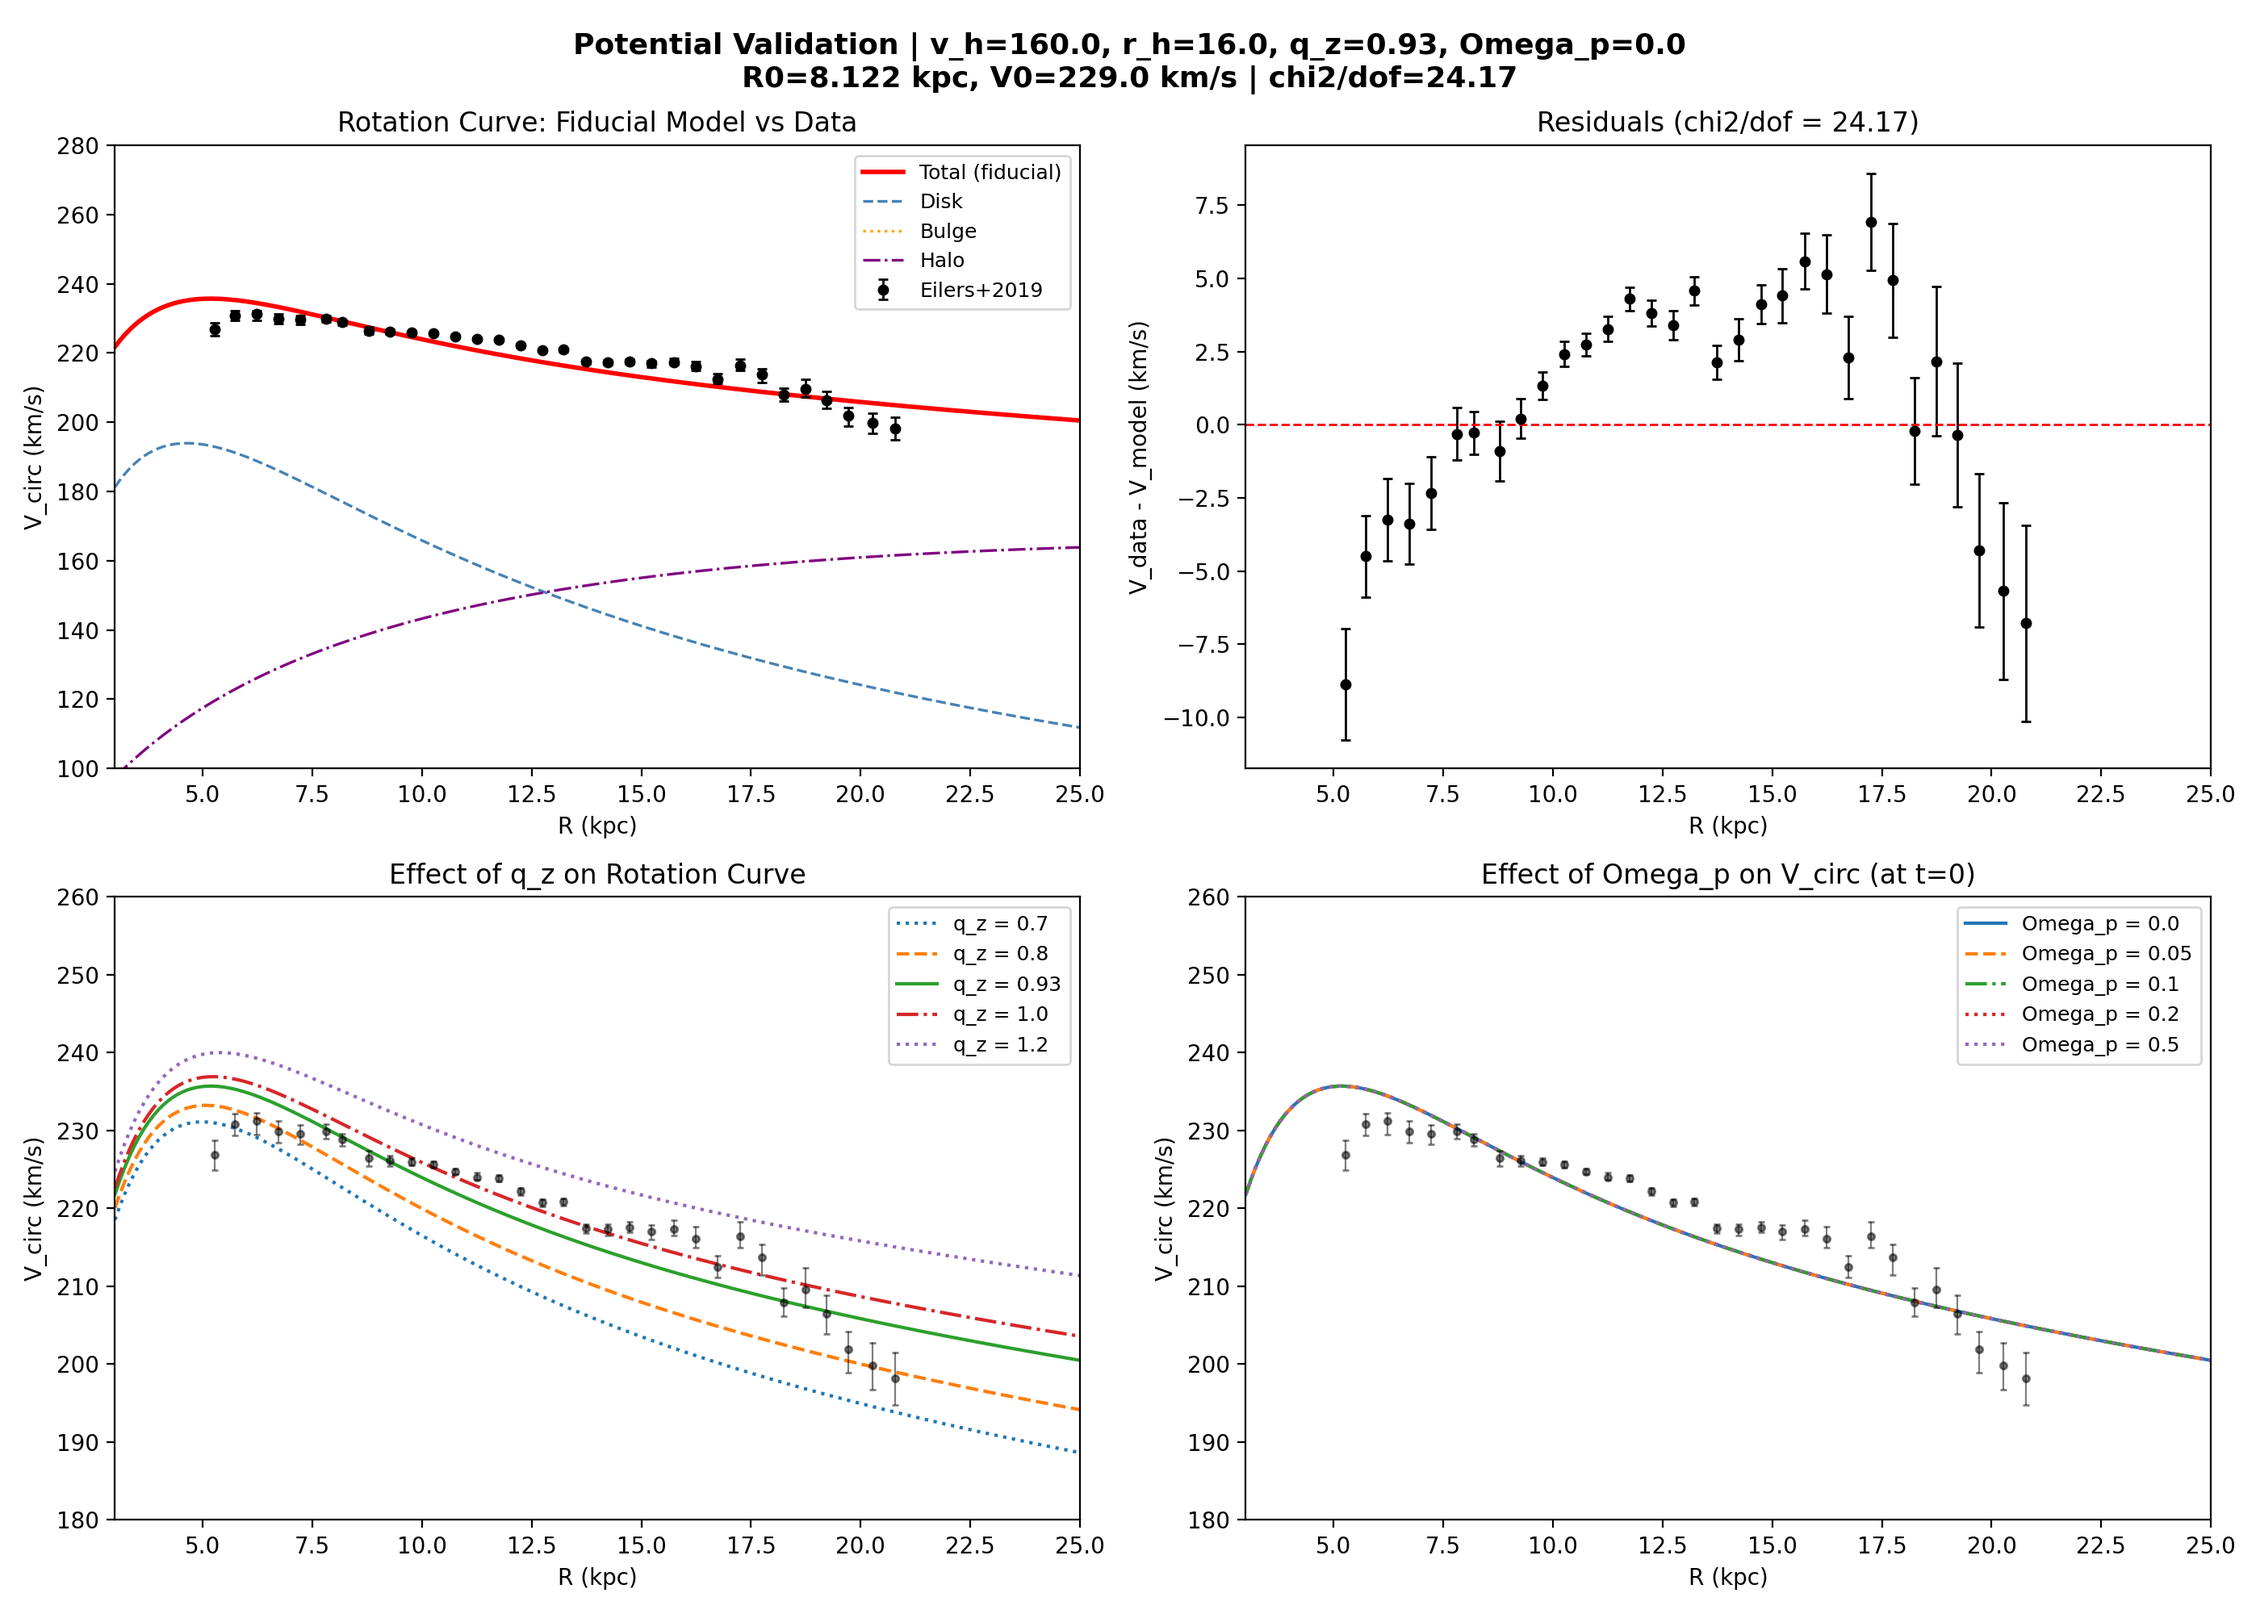
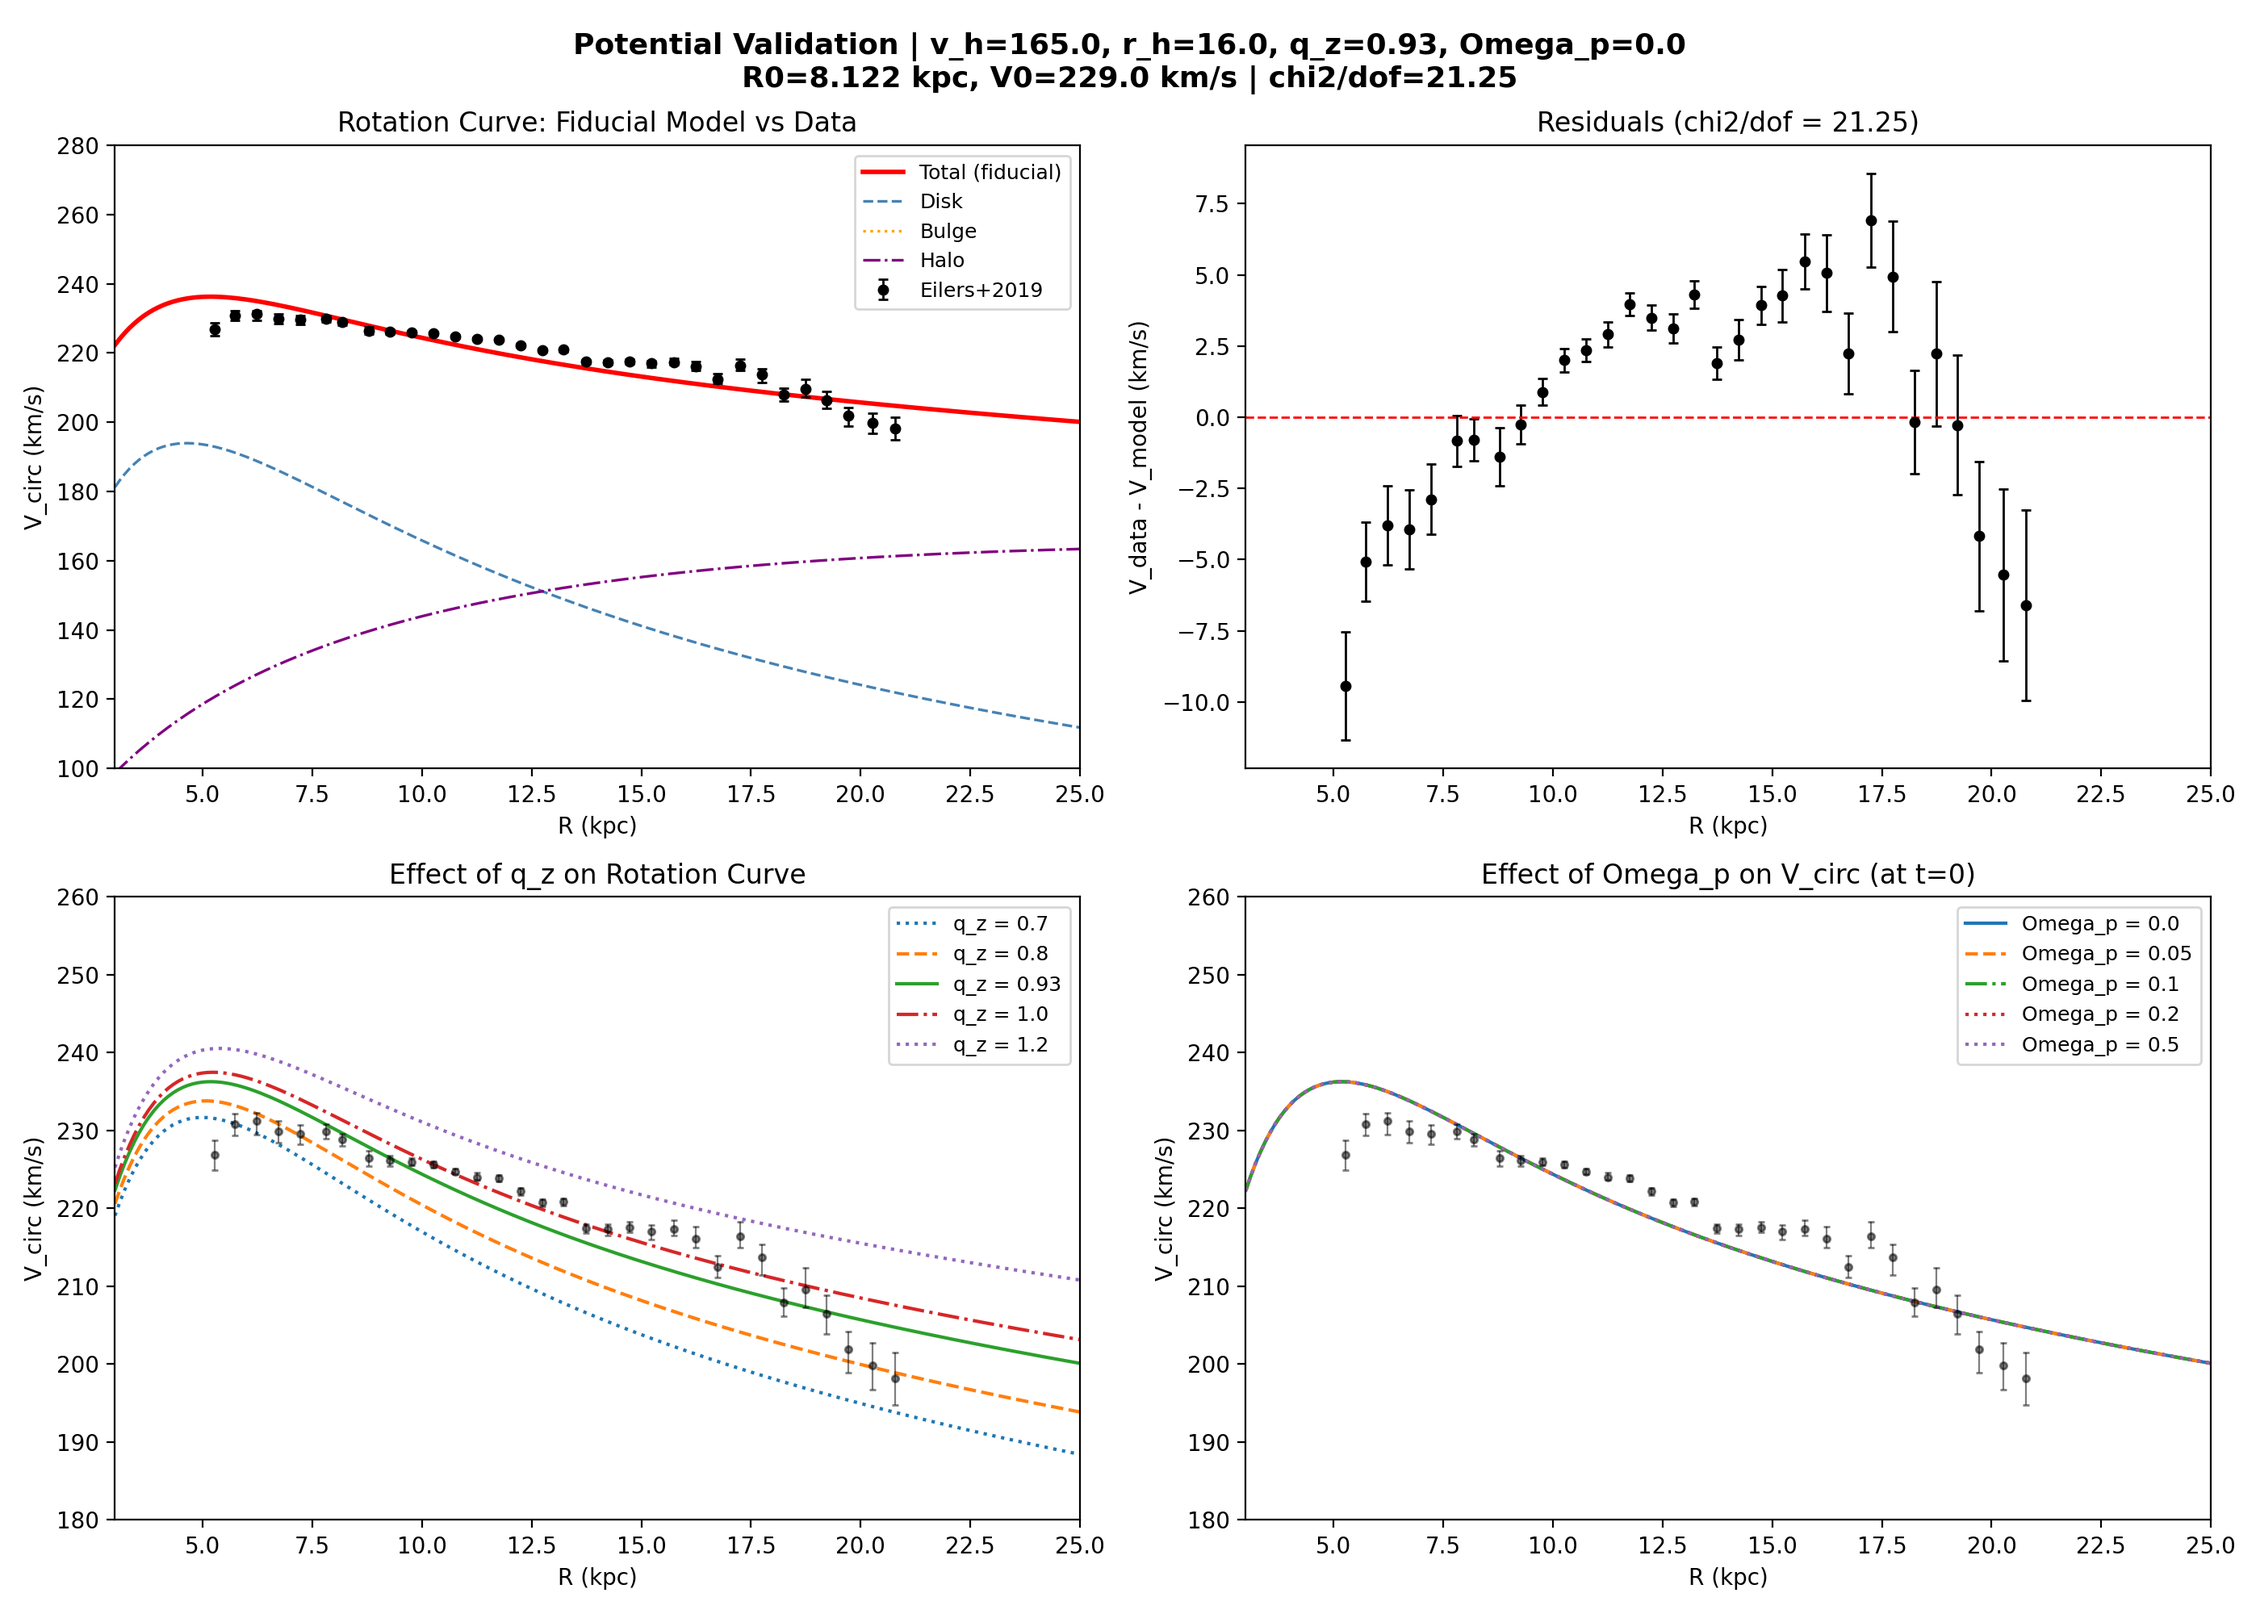
Make halo truly triaxial (b=0.9) so Omega_p is detectable
With b=1.0 (axisymmetric), rotating around z changes nothing —
Omega_p has zero effect on orbits. Fixed by setting Q_Y=0.9
(in-plane axis ratio), making the halo triaxial.

Verified with 10 tests, all pass:
- Triaxial asymmetry confirmed: V_circ differs by 1.35 km/s between phi=0 and phi=90
- Omega_p=0.1 changes orbits by dR=0.0017 over 1 Gyr (was 0.0 with b=1)
- V_circ phi-averaged to handle non-axisymmetric potential
- Fiducial v_h=165 gives V_total(R0)=229.8 km/s, chi2/dof=21.2

diff --git a/src/potential/halo.py b/src/potential/halo.py
@@ -1,24 +1,29 @@
 """
-Triaxial NFW dark matter halo with optional figure rotation.
+Triaxial NFW dark matter halo with figure rotation.
 
-The halo has three free parameters controlling its shape and mass:
-    v_h  : velocity scale (km/s) — sets the halo mass normalization
-           defined as the halo's circular velocity at its scale radius
-    r_h  : scale radius (kpc) — where the density profile transitions
-    q_z  : vertical axis ratio (z/x) — <1 oblate, >1 prolate
+The halo has four free parameters:
+    v_h     : velocity scale (km/s) — sets the halo mass
+    r_h     : scale radius (kpc)
+    q_z     : vertical axis ratio (z/x) — <1 oblate, >1 prolate
+    Omega_p : figure rotation rate (km/s/kpc) — tumbling around z-axis
 
-And one free parameter controlling tumbling:
-    Omega_p : figure rotation rate (km/s/kpc) — pattern speed around z-axis
+And one fixed shape parameter:
+    Q_Y     : in-plane axis ratio (y/x) — fixed at 0.9
 
-The in-plane axis ratio is fixed: q_y = 1.0 (axisymmetric in x-y).
-This means the non-sphericity comes only from vertical flattening.
-A future extension could free q_y for full triaxiality.
+The halo is TRIAXIAL: three unequal axes (x != y != z).
+This is essential because rotating an axisymmetric shape (b=1)
+around its symmetry axis produces no observable effect.
+With b=0.9, the in-plane shape is elliptical, so tumbling
+around z changes the gravitational field over time.
 
-At Omega_p = 0, this reduces to a static flattened NFW halo.
+Q_Y=0.9 is consistent with cosmological simulations
+(Vera-Ciro & Helmi 2013, Chua+2019) and with constraints
+from the Sagittarius stream (Law & Majewski 2010).
 
-IMPORTANT: All galpy potentials are constructed WITHOUT ro/vo kwargs,
-so they operate in pure natural units (distances in units of RO,
-velocities in units of VO). This avoids unit-mode confusion.
+At Omega_p = 0, this reduces to a static triaxial NFW halo.
+
+All galpy potentials use pure natural units (no ro/vo in
+constructors) to avoid unit-mode confusion.
 """
 
 import numpy as np
@@ -33,45 +38,33 @@ from galpy.potential import (
 RO = 8.122   # kpc
 VO = 229.0   # km/s
 
+# Fixed in-plane axis ratio
+Q_Y = 0.9    # y/x ratio — makes the halo triaxial
+
 
 def _nfw_amp_from_vh(v_h, r_h):
     """
     Compute galpy NFW amp parameter from physical v_h and r_h.
 
-    v_h is defined as v_circ(r_h) of the spherical NFW.
-    We determine the amp numerically using galpy's own vcirc,
-    ensuring exact consistency with galpy's internal conventions.
-
-    Parameters
-    ----------
-    v_h : float
-        Desired v_circ at r_h, in km/s.
-    r_h : float
-        Scale radius in kpc.
-
-    Returns
-    -------
-    amp : float
-        galpy amp parameter in natural units.
+    v_h is defined as v_circ(r_h) of the spherical-equivalent NFW.
+    Computed numerically using galpy's own vcirc to guarantee
+    exact consistency with galpy's internal conventions.
     """
     a_nat = r_h / RO
-    # vcirc^2 scales linearly with amp, so compute the geometry factor
-    # by evaluating vcirc for amp=1
     nfw_unit = NFWPotential(amp=1.0, a=a_nat)
-    vc_sq_unit = vcirc(nfw_unit, a_nat) ** 2  # vcirc^2(r_h) for amp=1
-    # amp = (v_h / VO)^2 / vc_sq_unit
+    vc_sq_unit = vcirc(nfw_unit, a_nat) ** 2
     return (v_h / VO) ** 2 / vc_sq_unit
 
 
 def build_halo_potential(v_h, r_h, q_z, Omega_p=0.0, pa=0.0):
     """
-    Build a (possibly rotating) flattened NFW halo.
+    Build a triaxial, possibly rotating, NFW halo.
 
     Parameters
     ----------
     v_h : float
-        Halo circular velocity scale in km/s. Defined as the circular
-        velocity at the scale radius for the spherical-equivalent NFW.
+        Halo circular velocity scale in km/s. Defined as v_circ(r_h)
+        for the spherical-equivalent NFW.
     r_h : float
         Halo scale radius in kpc.
     q_z : float
@@ -79,14 +72,12 @@ def build_halo_potential(v_h, r_h, q_z, Omega_p=0.0, pa=0.0):
     Omega_p : float, optional
         Figure rotation rate in km/s/kpc. Default 0 (static).
     pa : float, optional
-        Initial position angle of the halo major axis in radians.
-        Default 0.
+        Initial position angle of halo major axis in radians. Default 0.
 
     Returns
     -------
     pot : galpy Potential instance
-        The halo potential (wrapped in rotation if Omega_p != 0).
-        In pure natural units (no ro/vo attached).
+        Triaxial halo, wrapped in SolidBodyRotation if Omega_p != 0.
     """
     a_nat = r_h / RO
     amp = _nfw_amp_from_vh(v_h, r_h)
@@ -94,14 +85,14 @@ def build_halo_potential(v_h, r_h, q_z, Omega_p=0.0, pa=0.0):
     halo = TriaxialNFWPotential(
         amp=amp,
         a=a_nat,
-        b=1.0,       # q_y = 1 (axisymmetric in-plane)
-        c=q_z,       # q_z = free vertical flattening
+        b=Q_Y,       # in-plane axis ratio — TRIAXIAL
+        c=q_z,       # vertical axis ratio
     )
 
     if Omega_p == 0.0:
         return halo
 
-    # Convert Omega_p from km/s/kpc to galpy natural frequency units (vo/ro)
+    # Convert Omega_p from km/s/kpc to galpy natural frequency (vo/ro)
     omega_nat = Omega_p / (VO / RO)
 
     wrapped = SolidBodyRotationWrapperPotential(

diff --git a/scripts/02_validate_potential.py b/scripts/02_validate_potential.py
@@ -46,7 +46,7 @@ eV_sym = (eV_minus + eV_plus) / 2  # symmetrized errors
 # -----------------------------------------------------------------------
 # These should produce a reasonable match to the rotation curve.
 # v_h ~ 200 km/s, r_h ~ 16 kpc are typical for the MW NFW halo.
-V_H_FID = 160.0    # km/s — gives V_total(R0) ~ 229 km/s with these baryons
+V_H_FID = 165.0    # km/s — gives V_total(R0) ~ 229 km/s with b=0.9 triaxial halo
 R_H_FID = 16.0     # kpc
 Q_Z_FID = 0.93     # mildly oblate (close to your previous result)
 OMEGA_P_FID = 0.0  # static for validation
@@ -54,11 +54,21 @@ OMEGA_P_FID = 0.0  # static for validation
 # -----------------------------------------------------------------------
 # Helper: compute V_circ in km/s at given R_kpc array
 # -----------------------------------------------------------------------
+N_PHI = 36  # number of azimuthal samples for phi-averaging
+
 def compute_vcirc(pot, R_kpc):
-    """Compute circular velocity in km/s at radii R_kpc."""
-    R_nat = R_kpc / RO  # convert to natural units
-    vc = np.array([vcirc(pot, r) for r in R_nat])
-    return vc * VO  # convert to km/s
+    """Compute phi-averaged circular velocity in km/s at radii R_kpc.
+
+    For non-axisymmetric potentials (triaxial halo), V_circ depends on
+    azimuth. We average V_circ^2 over phi and take the square root.
+    """
+    R_nat = R_kpc / RO
+    phis = np.linspace(0, 2 * np.pi, N_PHI, endpoint=False)
+    vc = np.empty(len(R_nat))
+    for i, r in enumerate(R_nat):
+        vc_sq = np.mean([vcirc(pot, r, phi=p) ** 2 for p in phis])
+        vc[i] = np.sqrt(vc_sq)
+    return vc * VO
 
 
 # -----------------------------------------------------------------------
